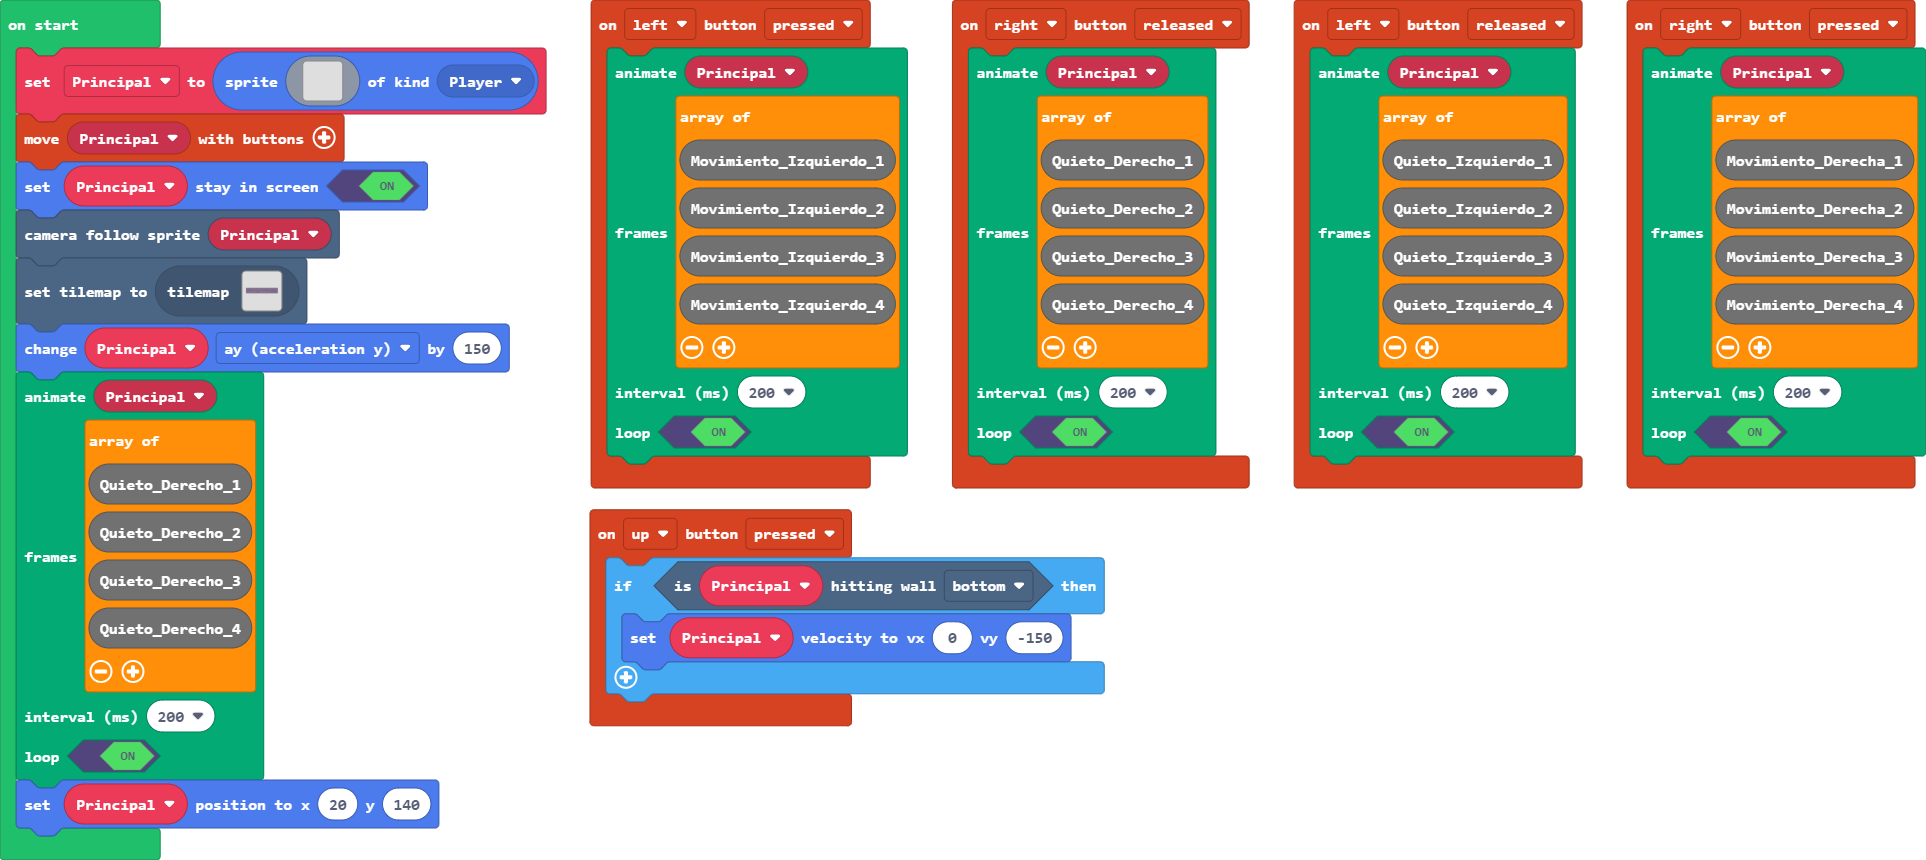
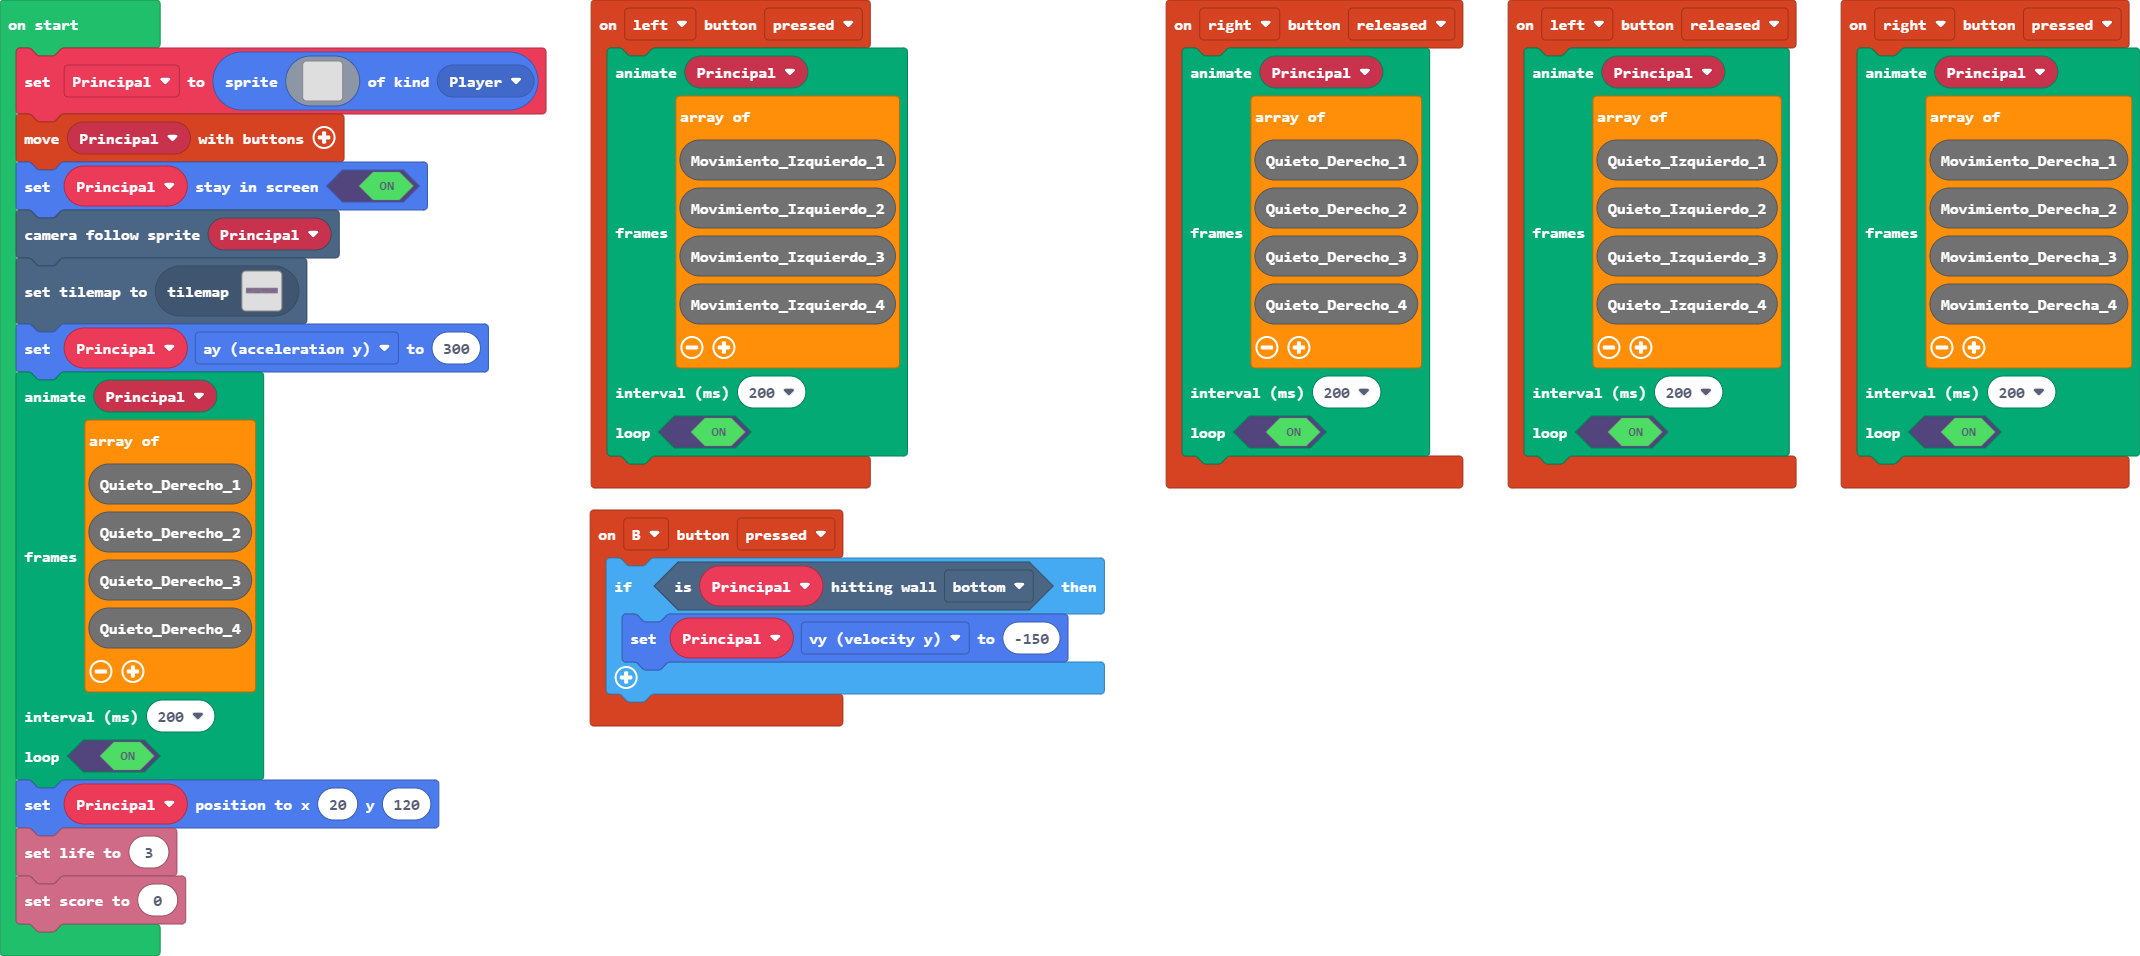
Update pxt.json, main.blocks, main.ts, tilemap.g.jres, tilemap.g.ts

diff --git a/tilemap.g.ts b/tilemap.g.ts
@@ -81,6 +81,25 @@ namespace myTiles {
 . . . . . . . . . . . . . . . . 
 . . . . . . . . . . . . . . . . 
 `, [myTiles.transparency16], TileScale.Sixteen);
+            case "level5":
+            case "level5":return tiles.createTilemap(hex`1000100000000000000000000000000000000000000000000000000000000000000000000000000000000000000000000000000000000000000000000000000000000000000000000000000000000000000000000000000000000000000000000000000000000000000000000000000000000000000000000000000000000000000000000000000000000000000000000000000000000000000000000000000000000000000000000000000000000000000000000000000000000000000000000000000000000000000000000000000000000000000000000000000000000000000000000000000000000000000000000000000000000000000000000000000000000000`, img`
+. . . . . . . . . . . . . . . . 
+. . . . . . . . . . . . . . . . 
+. . . . . . . . . . . . . . . . 
+. . . . . . . . . . . . . . . . 
+. . . . . . . . . . . . . . . . 
+. . . . . . . . . . . . . . . . 
+. . . . . . . . . . . . . . . . 
+. . . . . . . . . . . . . . . . 
+. . . . . . . . . . . . . . . . 
+. . . . . . . . . . . . . . . . 
+. . . . . . . . . . . . . . . . 
+. . . . . . . . . . . . . . . . 
+. . . . . . . . . . . . . . . . 
+. . . . . . . . . . . . . . . . 
+. . . . . . . . . . . . . . . . 
+. . . . . . . . . . . . . . . . 
+`, [myTiles.transparency16], TileScale.Sixteen);
         }
         return null;
     })

diff --git a/main.ts b/main.ts
@@ -1,6 +1,6 @@
-controller.up.onEvent(ControllerButtonEvent.Pressed, function () {
+controller.B.onEvent(ControllerButtonEvent.Pressed, function () {
     if (Principal.isHittingTile(CollisionDirection.Bottom)) {
-        Principal.setVelocity(0, -150)
+        Principal.vy = -150
     }
 })
 controller.left.onEvent(ControllerButtonEvent.Pressed, function () {
@@ -78,7 +78,7 @@ controller.moveSprite(Principal)
 Principal.setStayInScreen(true)
 scene.cameraFollowSprite(Principal)
 tiles.setCurrentTilemap(tilemap`Nivel 1`)
-Principal.ay += 150
+Principal.ay = 300
 animation.runImageAnimation(
 Principal,
 [
@@ -90,4 +90,6 @@ Quieto_Derecho_4
 200,
 true
 )
-Principal.setPosition(20, 140)
+Principal.setPosition(20, 120)
+info.setLife(3)
+info.setScore(0)
